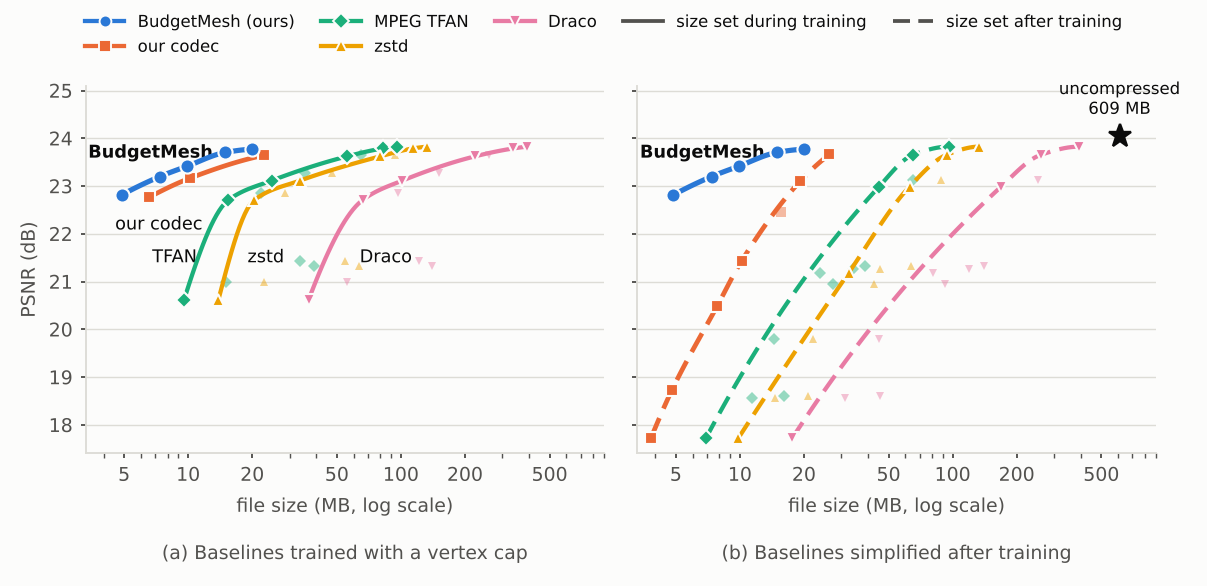
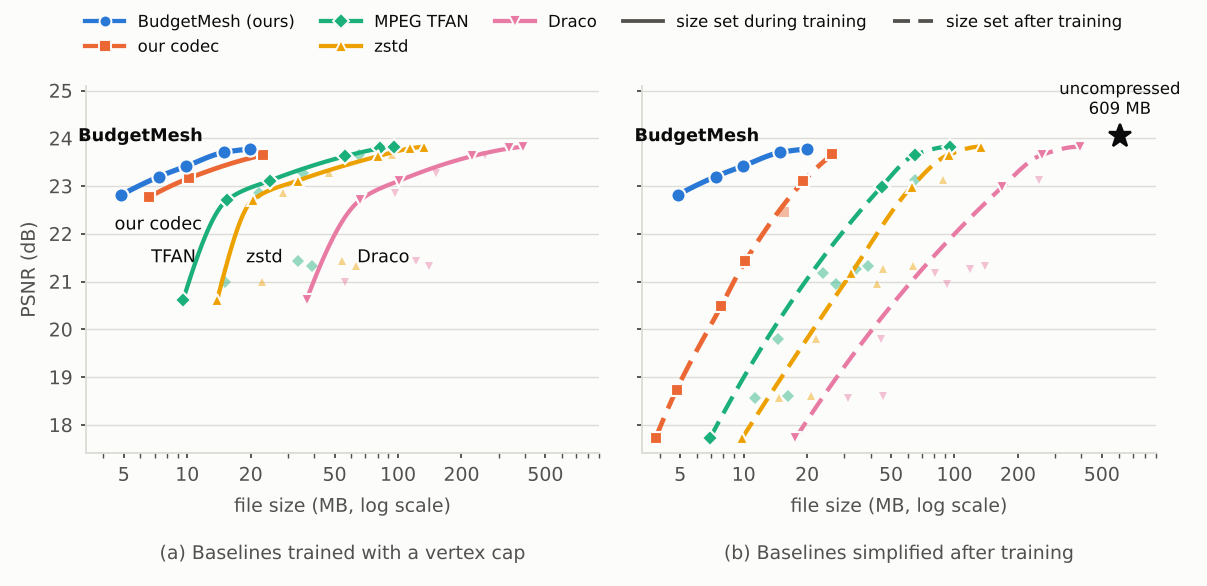
RD figures: move the BudgetMesh label clear of the five-point curve
Claude-Session: https://claude.ai/code/session_01CTmJ8bXaKwgwrH89NaZre1

diff --git a/paper/figures/make_figures_v7.py b/paper/figures/make_figures_v7.py
@@ -44,7 +44,7 @@ SPEC = (('tfan', 'MPEG TFAN', 'D', C5[2]), ('zstd', 'quantized PLY + zstd', '^',
 # ---- (a) all solid
 curve(a, bm, C5[0], '-', 'o', lw=2.2, ms=6, z=8, hl=bm); curve(a, co, C5[1], '-', 's', lw=2.0, ms=5.5, z=7, hl=co)
 for k, name, mk, col in SPEC: curve(a, D['points'][k], col, '-', mk, hl=D['hull'][k])
-a.annotate('BudgetMesh', bm[1], textcoords='offset points', xytext=(-4, 8), ha='center', fontsize=7.5, color=INK, fontweight='bold')
+a.annotate('BudgetMesh', bm[1], textcoords='offset points', xytext=(-8, 15), ha='center', fontsize=7.5, color=INK, fontweight='bold')
 a.annotate('our codec', co[0], textcoords='offset points', xytext=(4, -8), ha='center', va='top', fontsize=7.5, color=INK)
 a.text(11.0, 21.5, 'TFAN', ha='right', va='center', fontsize=7.5, color=INK); a.text(19.0, 21.5, 'zstd', ha='left', va='center', fontsize=7.5, color=INK); a.text(64.0, 21.5, 'Draco', ha='left', va='center', fontsize=7.5, color=INK)
 # ---- (b) BudgetMesh solid, everything else dashed
@@ -53,7 +53,7 @@ pho = ph + [ring]; curve(b, pho, C5[1], DASH, 's', lw=2.0, ms=5.5, z=7)
 for k, name, mk, col in SPEC: curve(b, [(v[k], v['psnr']) for v in G33.values()], col, DASH, mk)
 fx, fy = st.mean(FP[s][0] for s in MIP), st.mean(FP[s][1] for s in MIP)
 b.plot([fx], [fy], '*', color=INK, ms=10, zorder=6); b.annotate('uncompressed\n%.0f MB' % fx, (fx, fy), textcoords='offset points', xytext=(0, 7), ha='center', va='bottom', fontsize=7, color=INK)
-b.annotate('BudgetMesh', bm[1], textcoords='offset points', xytext=(-4, 8), ha='center', fontsize=7.5, color=INK, fontweight='bold')
+b.annotate('BudgetMesh', bm[1], textcoords='offset points', xytext=(-8, 15), ha='center', fontsize=7.5, color=INK, fontweight='bold')
 for ax, cap in ((a, '(a) Baselines trained with a vertex cap'), (b, '(b) Baselines simplified after training')):
     ax.set_xscale('log'); ax.set_xlim(3.3, 900); ax.set_ylim(17.4, 25.1)
     ax.xaxis.set_major_locator(mt.FixedLocator([5, 10, 20, 50, 100, 200, 500])); ax.xaxis.set_major_formatter(mt.FuncFormatter(lambda v, _: '%g' % v)); ax.xaxis.set_minor_formatter(mt.NullFormatter())

diff --git a/paper/figures/make_figures_v5.py b/paper/figures/make_figures_v5.py
@@ -31,7 +31,7 @@ curve(bm, bm, C5[0], '-', 'o', 'BudgetMesh: our controller + our codec', lw=2.2,
 curve(co, co, C5[1], '-', 's', 'MeshSplatting with a vertex cap + our codec', lw=2.0, ms=5.5, z=7)
 for (k, name, ls, mk), col in zip((('tfan', 'MPEG TFAN', '-', 'D'), ('zstd', 'quantized PLY + zstd', (0, (5, 2)), '^'), ('draco', 'Draco', (0, (1.5, 1.8)), 'v')), C5[2:]):
     curve(D['points'][k], D['hull'][k], col, ls, mk, 'MeshSplatting with a vertex cap + ' + name)
-ax.annotate('BudgetMesh', bm[1], textcoords='offset points', xytext=(-4, 9), ha='center', fontsize=8, color=INK, fontweight='bold')
+ax.annotate('BudgetMesh', bm[1], textcoords='offset points', xytext=(-8, 15), ha='center', fontsize=8, color=INK, fontweight='bold')
 ax.annotate('cap + our codec', co[0], textcoords='offset points', xytext=(2, -8), ha='center', va='top', fontsize=7.5, color=INK)
 ax.text(11.3, 21.9, 'cap + TFAN', ha='right', va='center', fontsize=7.5, color=INK)
 ax.text(18.0, 21.9, 'cap + zstd', ha='left', va='center', fontsize=7.5, color=INK)
